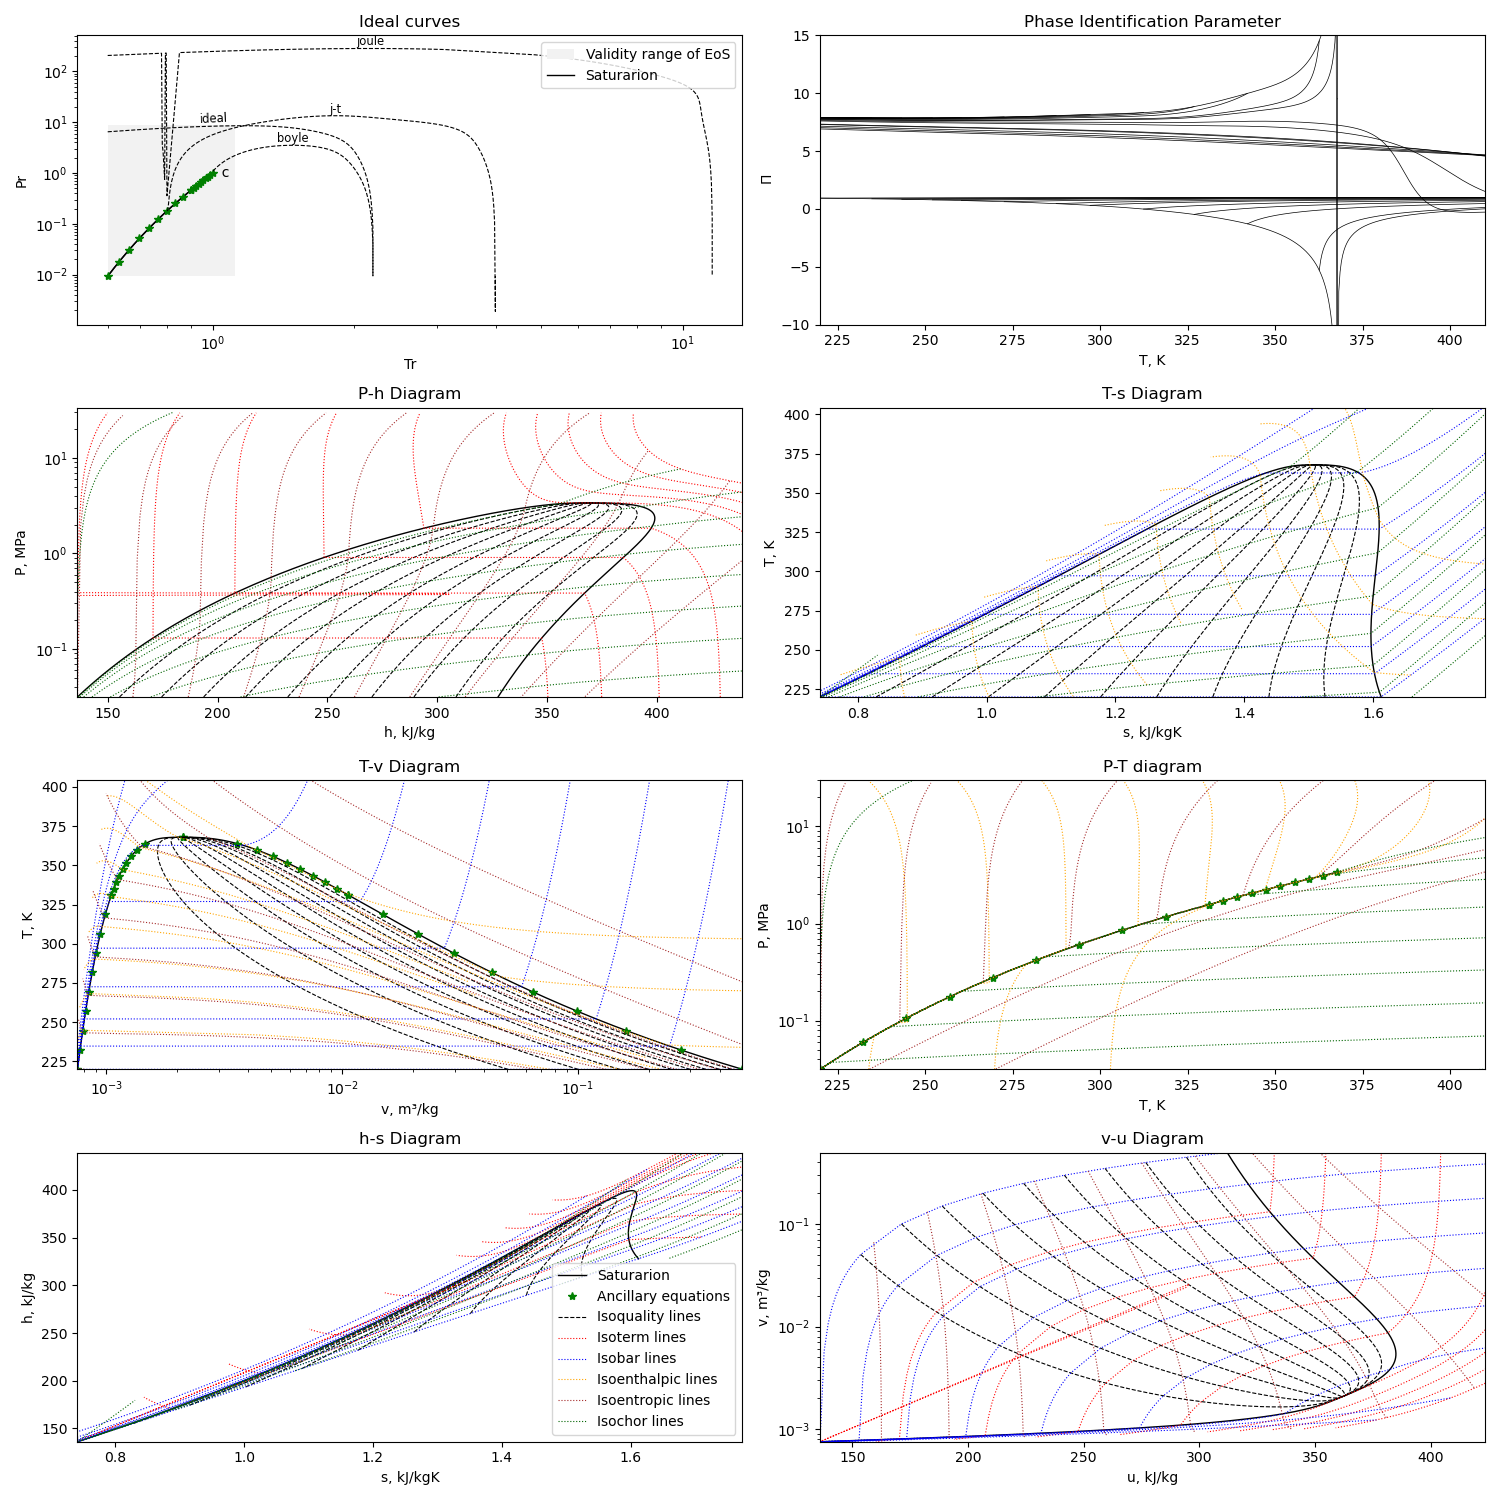
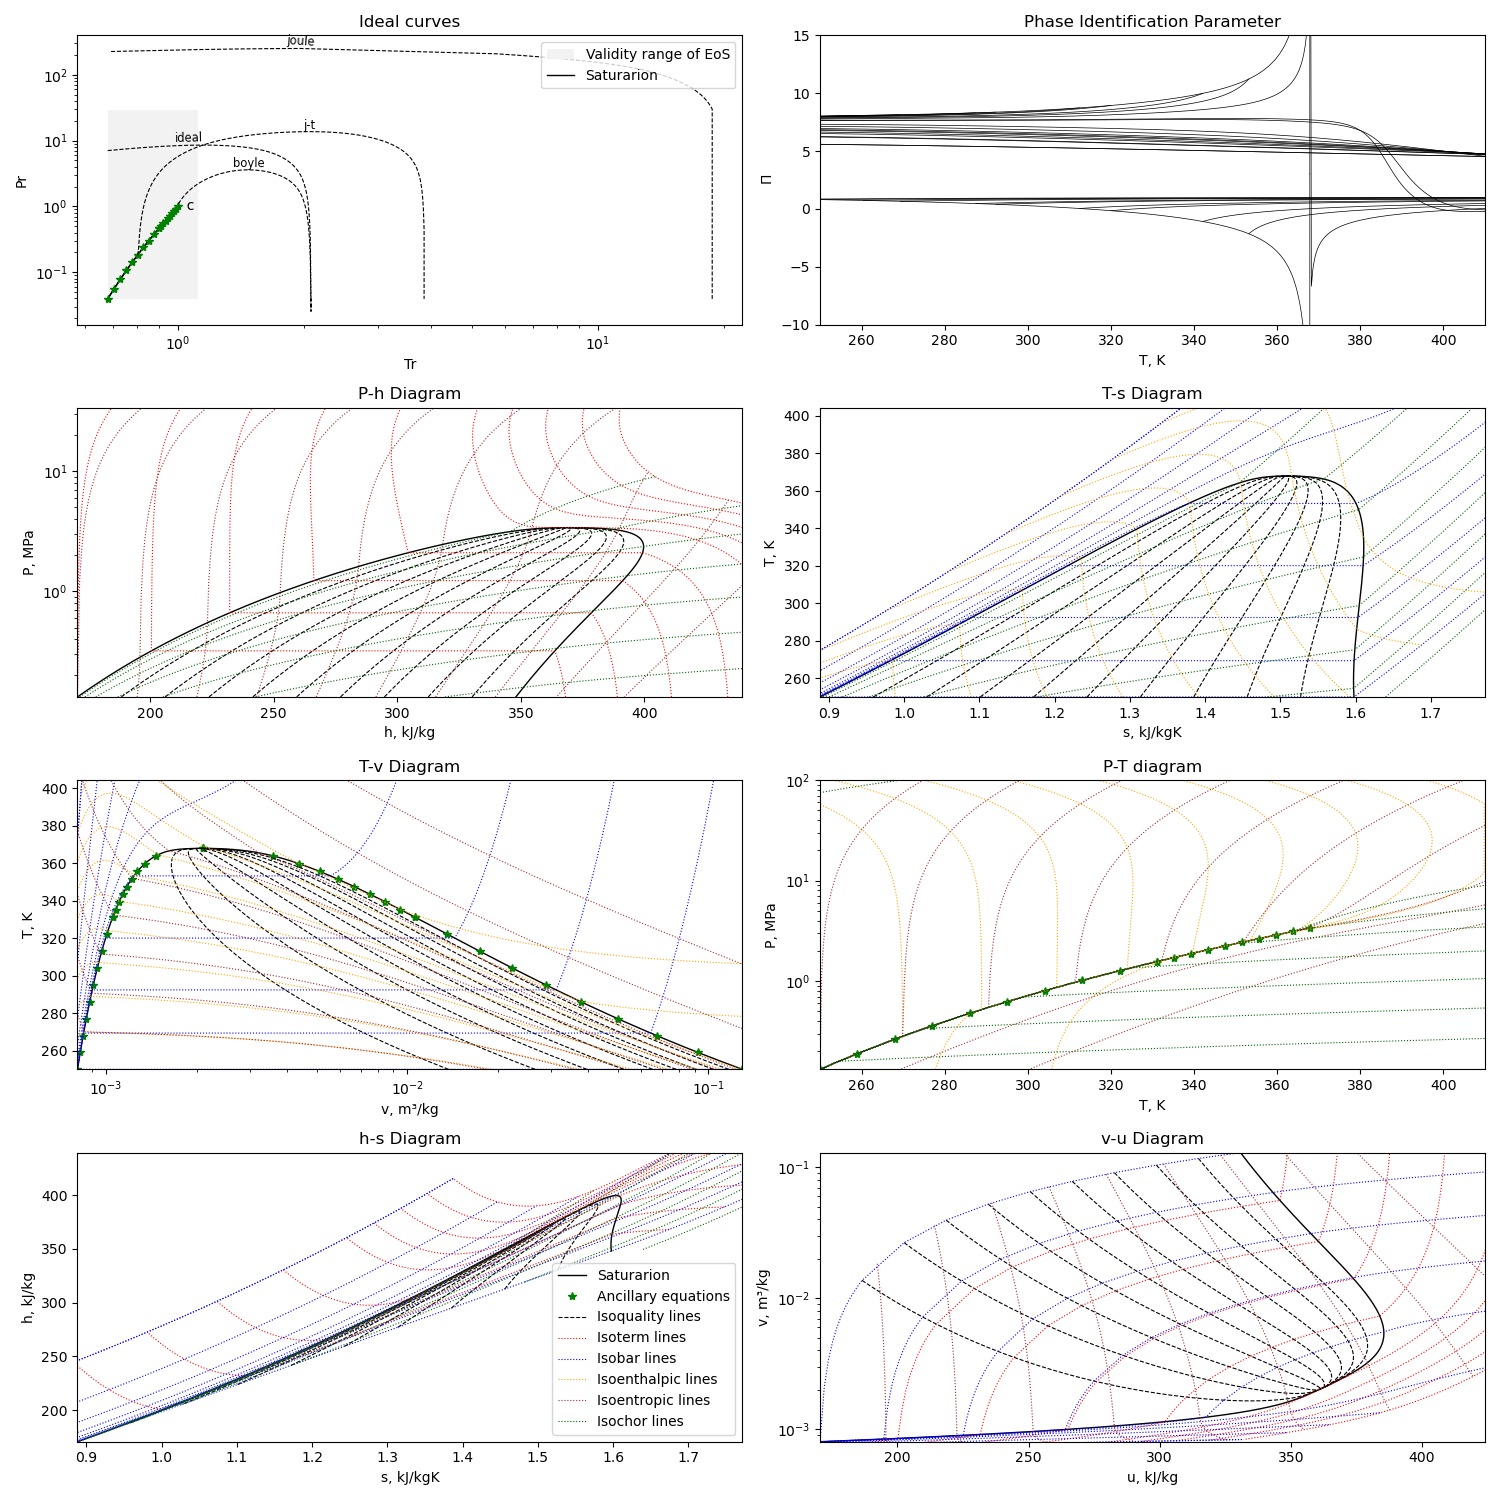
Add Lemmon reference correlation for R1234yf and update docs image

diff --git a/lib/mEoS/R1234yf.py b/lib/mEoS/R1234yf.py
@@ -31,12 +31,12 @@ class R1234yf(MEoS):
     formula = "CF3CF=CH2"
     synonym = "R-1234yf"
     _refPropName = "R1234YF"
-    rhoc = unidades.Density(475.553441976)
+    rhoc = unidades.Density(476.693888)
     Tc = unidades.Temperature(367.85)
-    Pc = unidades.Pressure(3382.2, "kPa")
-    M = 114.04159  # g/mol
-    Tt = unidades.Temperature(220.)
-    Tb = unidades.Temperature(243.7)
+    Pc = unidades.Pressure(3384.4, "kPa")
+    M = 114.0416  # g/mol
+    Tt = unidades.Temperature(121.6)
+    Tb = unidades.Temperature(243.692)
     f_acent = 0.276
     momentoDipolar = unidades.DipoleMoment(2.48, "Debye")
 
@@ -52,6 +52,49 @@ class R1234yf(MEoS):
            "ao_exp": [5.2829, 6.96022, 7.04266],
            "titao": [354/Tc, 965/Tc, 1981/Tc]}
 
+    Fi3 = {"ao_log": [1, 3],
+           "pow": [0, 1],
+           "ao_pow": [-12.081525543189, 8.52896238365],
+           "ao_exp": [8.65, 9.75, 2.11],
+           "titao": [512/Tc, 1570/Tc, 4500/Tc]}
+
+    lemmon = {
+        "__type__": "Helmholtz",
+        "__name__": "Helmholtz equation of state for R1234yf of Lemmon (2022)",
+        "__doi__": {"autor": "Lemmon, E.W., Akasaka, R.",
+                    "title": "An International Standard Formulation for "
+                             "2,3,3,3-Tetrafluoroprop-1-ene (R1234yf) Covering"
+                             " Temperatures from the Triple Point Temperature "
+                             "to 410 K and Pressures Up to 100 MPa",
+                    "ref": "Int. J. Thermophys. 43(8) (2022) 119",
+                    "doi": "10.1007/s10765-022-03015-y"},
+
+        "R": 8.314462618,
+        "cp": Fi3,
+        "ref": "IIR",
+
+        "Tmin": 250, "Tmax": 410.0, "Pmax": 100000.0, "rhomax": 25,
+
+        "nr1": [0.0340387, 1.912859, -2.1984719881617, -0.8147645305033,
+                0.2288282],
+        "d1": [4, 1, 1, 2, 3],
+        "t1": [1, 0.222, 0.61, 1.122, 0.5],
+
+        "nr2": [-1.65436, -1.446628, 0.5961722, -0.6148209, -0.0180069],
+        "d2": [1, 3, 2, 2, 7],
+        "t2": [2.14, 2.284, 1.05, 2.33, 0.778],
+        "c2": [2, 2, 1, 2, 1],
+        "gamma2": [1]*5,
+
+        "nr3": [0.2845275, -0.3050809, 2.198935, -0.4270329, -0.4015581,
+                0.1179587, -0.3141002],
+        "d3": [1, 1, 1, 1, 1, 1, 1],
+        "t3": [1, 2, 1.236, 1.6, 1.85, 0.7, 1.75],
+        "alfa3": [28.1, 28, 1.307, 1.96, 1.25, 1, 2.2],
+        "beta3": [1016, 1000, 1.16, 1.2, 1.26, 1.6, 0.87],
+        "gamma3": [1.061, 1.062, 1.3, 1.04, 1, 1.14, 1.1],
+        "epsilon3": [0.96, 0.96, 0.853, 1.15, 1.3, 1.5, 0.762]}
+
     richter = {
         "__type__": "Helmholtz",
         "__name__": "Helmholtz equation of state for R1234yf of Richter "
@@ -66,6 +109,7 @@ class R1234yf(MEoS):
         "R": 8.314472,
         "cp": Fi1,
         "ref": "IIR",
+        "M": 114.04159, "rhoc": 4.17,
 
         "Tmin": Tt, "Tmax": 410.0, "Pmax": 30000.0, "rhomax": 11.64,
 
@@ -102,6 +146,7 @@ class R1234yf(MEoS):
         "R": 8.314472,
         "cp": Fi2,
         "ref": "IIR",
+        "M": 114.042, "rhoc": 478/114.042,
 
         "Tmin": 240., "Tmax": 400.0, "Pmax": 40000.0, "rhomax": 11.64,
 
@@ -119,7 +164,7 @@ class R1234yf(MEoS):
         "c2": [1, 1, 1, 1, 2, 2, 2, 2, 2, 3, 3, 3],
         "gamma2": [1]*12}
 
-    eq = richter, akasaka
+    eq = lemmon, richter, akasaka
 
     # Unorthodox formulation
     # Rykov, V.A., Rykov, S.V., Sverdlov, A.V.
@@ -130,16 +175,16 @@ class R1234yf(MEoS):
     _surface = {"sigma": [0.06274], "exp": [1.394]}
     _vapor_Pressure = {
         "eq": 3,
-        "n": [-0.74697e1, 0.27915e1, -0.21312e1, -0.29531e1],
-        "t": [1.0, 1.5, 1.8, 3.8]}
+        "n": [-7.4507, 2.164, -1.674, -3.318, -1.617],
+        "t": [1.0, 1.5, 2, 4, 9]}
     _liquid_Density = {
         "eq": 1,
-        "n": [0.19083e1, -0.21383e1, 0.93653e1, -0.98659e1, 0.35859e1],
-        "t": [0.32, 0.56, 0.8, 1.0, 1.3]}
+        "n": [3.392, -4.119, 8.932, -8.525, 3.384],
+        "t": [0.4, 0.7, 1.1, 1.5, 2.1]}
     _vapor_Density = {
         "eq": 2,
-        "n": [-0.23511e1, -0.11515e2, -0.53984e1, -0.37937e2],
-        "t": [0.355, 2.45, 1.0, 5.1]}
+        "n": [-3.616, -74.91, 197.7, -152.76, -61.062, -115.53],
+        "t": [0.426, 2, 2.4, 2.7, 7.5, 15]}
 
     visco0 = {"__name__": "Huber (2016)",
               "__doi__": {
@@ -211,28 +256,68 @@ class R1234yf(MEoS):
 class Test(TestCase):
     """Testing"""
 
+    def test_lemmon(self):
+        """Table 7, pag 27"""
+        st = R1234yf(T=280, rhom=0)
+        self.assertEqual(round(st.P.MPa, 6), 0)
+        self.assertEqual(round(st.cvM.JmolK, 4), 89.2037)
+        self.assertEqual(round(st.cpM.JmolK, 4), 97.5182)
+        self.assertEqual(round(st.w, 3), 149.388)
+
+        st = R1234yf(T=280, rhom=11)
+        self.assertEqual(round(st.P.MPa, 5), 28.95760)
+        self.assertEqual(round(st.cvM.JmolK, 3), 101.930)
+        self.assertEqual(round(st.cpM.JmolK, 3), 139.307)
+        self.assertEqual(round(st.w, 3), 738.905)
+
+        st = R1234yf(T=280, rhom=0.1)
+        self.assertEqual(round(st.P.MPa, 7), 0.2185345)
+        self.assertEqual(round(st.cvM.JmolK, 4), 91.3497)
+        self.assertEqual(round(st.cpM.JmolK, 3), 102.623)
+        self.assertEqual(round(st.w, 3), 141.882)
+
+        st = R1234yf(T=340, rhom=8)
+        self.assertEqual(round(st.P.MPa, 6), 2.309798)
+        self.assertEqual(round(st.cvM.JmolK, 3), 113.805)
+        self.assertEqual(round(st.cpM.JmolK, 3), 195.748)
+        self.assertEqual(round(st.w, 3), 265.888)
+
+        st = R1234yf(T=340, rhom=1)
+        self.assertEqual(round(st.P.MPa, 6), 1.855076)
+        self.assertEqual(round(st.cvM.JmolK, 3), 113.479)
+        self.assertEqual(round(st.cpM.JmolK, 3), 168.646)
+        self.assertEqual(round(st.w, 3), 114.354)
+
+        st = R1234yf(T=368, rhom=4.2)
+        self.assertEqual(round(st.P.MPa, 6), 3.394716)
+        self.assertEqual(round(st.cvM.JmolK, 3), 149.703)
+        self.assertEqual(round(st.cpM.JmolK, 1), 48981.3)
+        self.assertEqual(round(st.w, 4), 76.3597)
+
     def test_Perkins(self):
         """Table 2, Pag 4872"""
         # Critical enhancement fail because viscosity correlation
-        st = R1234yf(T=250, P=5e4)
+        st = R1234yf(T=250, P=5e4, eq=1)
         self.assertEqual(round(st.rho, 5), 2.80006)
         self.assertEqual(round(st.k, 7), 0.0098482)
 
-        st = R1234yf(T=300, P=1e5)
+        st = R1234yf(T=300, P=1e5, eq=1)
         self.assertEqual(round(st.rho, 6), 4.671553)
         self.assertEqual(round(st.k, 6), 0.013996)
 
-        st = R1234yf(T=250, P=2e7)
+        st = R1234yf(T=250, P=2e7, eq=1)
         self.assertEqual(round(st.rho, 2), 1299.50)
         self.assertEqual(round(st.k, 6), 0.088580)
 
-        st = R1234yf(T=300, P=2e7)
+        st = R1234yf(T=300, P=2e7, eq=1)
         self.assertEqual(round(st.rho, 2), 1182.05)
         self.assertEqual(round(st.k, 6), 0.075254)
 
     def test_Huber(self):
         """Section 2.4"""
-        self.assertEqual(round(R1234yf(T=300, rhom=0).mu.muPas, 3), 11.579)
-        self.assertEqual(round(R1234yf(T=300, rhom=0.044).mu.muPas, 3), 11.549)
         self.assertEqual(round(
-            R1234yf(T=300, rhom=10.522).mu.muPas, 3), 217.97)
+            R1234yf(T=300, rhom=0, eq=1).mu.muPas, 3), 11.579)
+        self.assertEqual(round(
+            R1234yf(T=300, rhom=0.044, eq=1).mu.muPas, 3), 11.549)
+        self.assertEqual(round(
+            R1234yf(T=300, rhom=10.522, eq=1).mu.muPas, 3), 217.97)

diff --git a/lib/mEoS/Hexene_1.py b/lib/mEoS/Hexene_1.py
@@ -55,7 +55,6 @@ class Hexene_1(MEoS):
                     "title": "Thermodynamic properties fo 1-hexene - "
                              "Measurements and Modeling",
                     "ref": "J. Chem. Thermo., 176 (2023) 106881",
-                    # Find final article
                     "doi": "10.1016/j.jct.2022.106881"},
 
         "R": 8.314462618,
@@ -175,7 +174,7 @@ class Test(TestCase):
     """Testing"""
 
     def test_betken(self):
-        """Table 17, Pag 25"""
+        """Table 17, Pag 20"""
         st = Hexene_1(T=300, rhom=0.001)
         self.assertEqual(round(st.P.MPa, 9), 0.002490162)
         self.assertEqual(round(st.cpM.kJkmolK, 7), 130.2264437)

diff --git a/.script/plotMEoS.py b/.script/plotMEoS.py
@@ -795,6 +795,10 @@ for curva in ["ideal", "boyle", "joule-thomson", "joule"]:
                 if curva == "boyle":
                     continue
 
+        if curva == "joule":
+            if P <= Pmax:
+                continue
+
         if 0 < P <= Pm:
             T_line.append(t/Tc)
             P_line.append(P/fluid.Pc)
